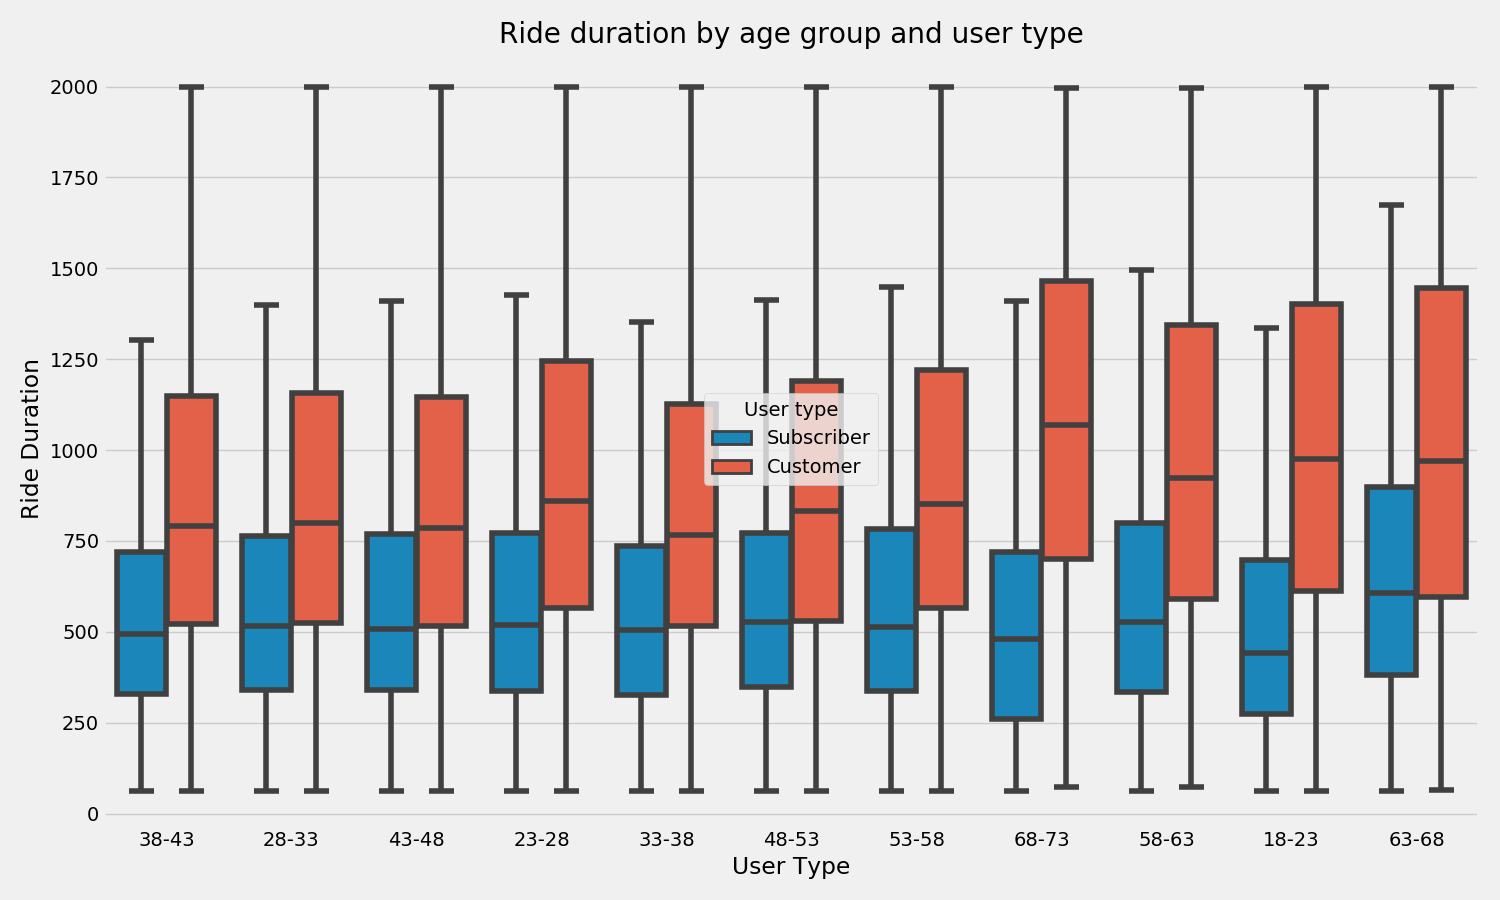
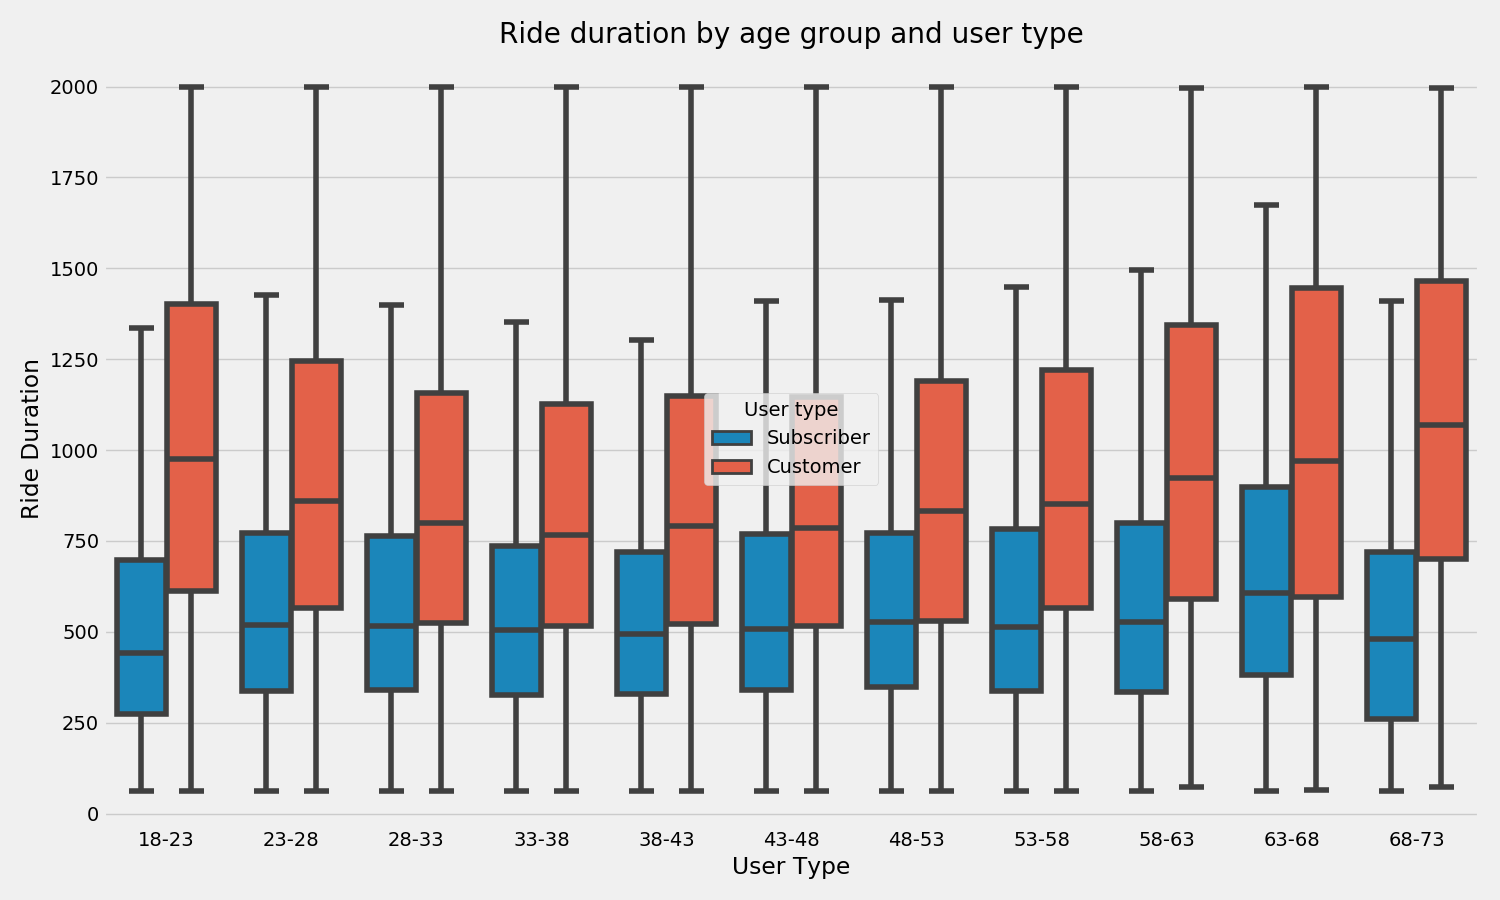
reordering age bins, more general plots

diff --git a/Ford_GoBike/plotting.py b/Ford_GoBike/plotting.py
@@ -3,7 +3,7 @@ import matplotlib.pyplot as plt
 import os
 import numpy as np
 
-def bar_wrapper(df,x,y,title,xlab,ylab,output_dir,save,suffix,orientation='v'):
+def bar_wrapper(df,x,y,title,xlab,ylab,output_dir,save=True,hue=None,suffix=None,orientation='v'):
   '''Plots the barchart for corresponding to some value associated with a name
   Args:
     - df          (DataFrame): The dataframe containing all data
@@ -14,6 +14,7 @@ def bar_wrapper(df,x,y,title,xlab,ylab,output_dir,save,suffix,orientation='v'):
     - ylab        (String)   : Y-axis label
     - output_dir  (String)   : Base directory for this set of charts
     - save        (Boolean)  : Saves the file by default, if set to False, displays the plot instead
+    - hue         (String)   : Variavble to split data on
     - suffix      (String)   : Suffix to append to title, also the filename
     - orientation (String)   : 'v' for vertical bar chart, 'h' for horizontal bars
   '''
@@ -25,14 +26,19 @@ def bar_wrapper(df,x,y,title,xlab,ylab,output_dir,save,suffix,orientation='v'):
   else:
     pal = sns.color_palette("RdYlGn_r", len(df[y].unique()))
     rank = df[x].argsort().argsort()
-  sns.barplot(data=df, x=x, y=y,palette=np.array(pal[::-1])[rank])
+  sns.barplot(data=df, x=x, y=y,palette=np.array(pal[::-1])[rank],hue=hue)
+  if hue:
+    plt.legend(title=' '.join(hue.split('_')).capitalize())
   plt.xlabel(xlab)
   plt.ylabel(ylab)
   plt.title(title)
   plt.yticks(fontsize=10)
 
   plt.tight_layout()
-  fname = suffix
+  if suffix:
+    fname = suffix
+  else:
+    fname = title
 
   if save:
     if not os.path.exists(output_dir):
@@ -42,7 +48,7 @@ def bar_wrapper(df,x,y,title,xlab,ylab,output_dir,save,suffix,orientation='v'):
     plt.show()
   plt.close()
 
-def boxplot_wrapper(df,x,y,title,xlab,ylab,output_dir,save,suffix,hue=None,outliers=False):
+def boxplot_wrapper(df,x,y,title,xlab,ylab,output_dir,save=True,suffix=None,hue=None,outliers=False,order=None):
   '''Plots the boxplot for the provided data.
   Args:
     - df          (DataFrame): The dataframe containing all data
@@ -56,9 +62,11 @@ def boxplot_wrapper(df,x,y,title,xlab,ylab,output_dir,save,suffix,hue=None,outli
     - suffix      (String)   : Suffix to append to title, also the filename
     - hue         (String)   : Variable by which to group data by
     - outliers    (Boolean)  : Show outliers if True
+    - ord         (List)     : List denoting order for x-axis
   '''
   fig = plt.figure(figsize = (15,9))
-  g = sns.boxplot(x=x,y=y,data=df,showfliers=outliers,hue=hue)
+
+  g = sns.boxplot(x=x,y=y,data=df,showfliers=outliers,hue=hue,order=order)
   if hue:
     plt.legend(title=' '.join(hue.split('_')).capitalize())
   if outliers:
@@ -77,7 +85,7 @@ def boxplot_wrapper(df,x,y,title,xlab,ylab,output_dir,save,suffix,hue=None,outli
     plt.show()
   plt.close()
 
-def violinplot_wrapper(df,x,y,title,xlab,ylab,output_dir,save,suffix,hue=None,outliers=False):
+def violinplot_wrapper(df,x,y,title,xlab,ylab,output_dir,save=True,suffix=None,hue=None,outliers=False,order=None):
   '''Plots the boxplot for the provided data.
   Args:
     - df          (DataFrame): The dataframe containing all data
@@ -91,9 +99,10 @@ def violinplot_wrapper(df,x,y,title,xlab,ylab,output_dir,save,suffix,hue=None,ou
     - suffix      (String)   : Suffix to append to title, also the filename
     - hue         (String)   : Variable by which to group data by
     - outliers    (Boolean)  : Show outliers if True
+    - ord         (List)     : List denoting order for x-axis
   '''
   fig = plt.figure(figsize = (15,9))
-  g = sns.violinplot(x=x,y=y,data=df,showfliers=outliers,hue=hue,split=True)
+  g = sns.violinplot(x=x,y=y,data=df,showfliers=outliers,hue=hue,split=True,order=order)
   if outliers:
     title = '-'.join([title,'with outliers'])
   if hue:

diff --git a/Ford_GoBike/analysis.py b/Ford_GoBike/analysis.py
@@ -218,6 +218,7 @@ def distribution_analysis(df,inds,dep,titles,hues,xlabs,ylab,output_dir,save):
     - save        (Boolean)  : Saves the file by default, if set to False, displays the plot instead
     - suffix      (String)   : Suffix to append to title, also the filename
   '''
+  age_bins = sorted(list(df['age_range'].unique()))
   for ind,(x,hue,title,xlab) in enumerate(zip(inds,hues,titles,xlabs)):
     plotting.boxplot_wrapper(df=numerical_df,
       x=x,
@@ -229,7 +230,8 @@ def distribution_analysis(df,inds,dep,titles,hues,xlabs,ylab,output_dir,save):
       save=True,
       suffix=title,
       outliers=False,
-      hue=hue)
+      hue=hue,
+      order=age_bins if x=='age_range' else None)
     plotting.violinplot_wrapper(df=numerical_df,
       x=x,
       y=dep,
@@ -240,7 +242,8 @@ def distribution_analysis(df,inds,dep,titles,hues,xlabs,ylab,output_dir,save):
       save=True,
       suffix=title,
       outliers=False,
-      hue=hue)
+      hue=hue,
+      order=age_bins if x=='age_range' else None)
 
 def hist_wrapper(df,var,output_dir,save,lim=None):
   '''Simple helper to plot histograms for age or ride duration distribution
@@ -283,7 +286,28 @@ def hist_wrapper(df,var,output_dir,save,lim=None):
 if __name__ == '__main__':
   save_run = True
   df = pickler()
+  print(df.groupby(['start_hour','user_type'])['bike_id'].count().reset_index(name='rides'))
+  # #General plots about high level information
+  # plotting.bar_wrapper(df=df.groupby('start_hour')['bike_id'].count().reset_index(name='rides'),
+  #   x='start_hour',
+  #   y='rides',
+  #   title='Rides per hour',
+  #   xlab='Hour',
+  #   ylab='Rides',
+  #   output_dir=output_dir+'Aggregates/',
+  #   save=save_run)
+  # plotting.bar_wrapper(df=df.groupby(['start_hour','user_type'])['bike_id'].count().reset_index(name='rides'),
+  #   x='start_hour',
+  #   y='rides',
+  #   title='Rides per hour by user type',
+  #   xlab='Hour',
+  #   ylab='Rides',
+  #   hue='user_type',
+  #   output_dir=output_dir+'Aggregates/',
+  #   save=save_run)
 
+
+  sys.exit()
   #Analysis of net bikes at stations within a given region
   # station_analysis(df, 'San Francisco', save_run)
 
